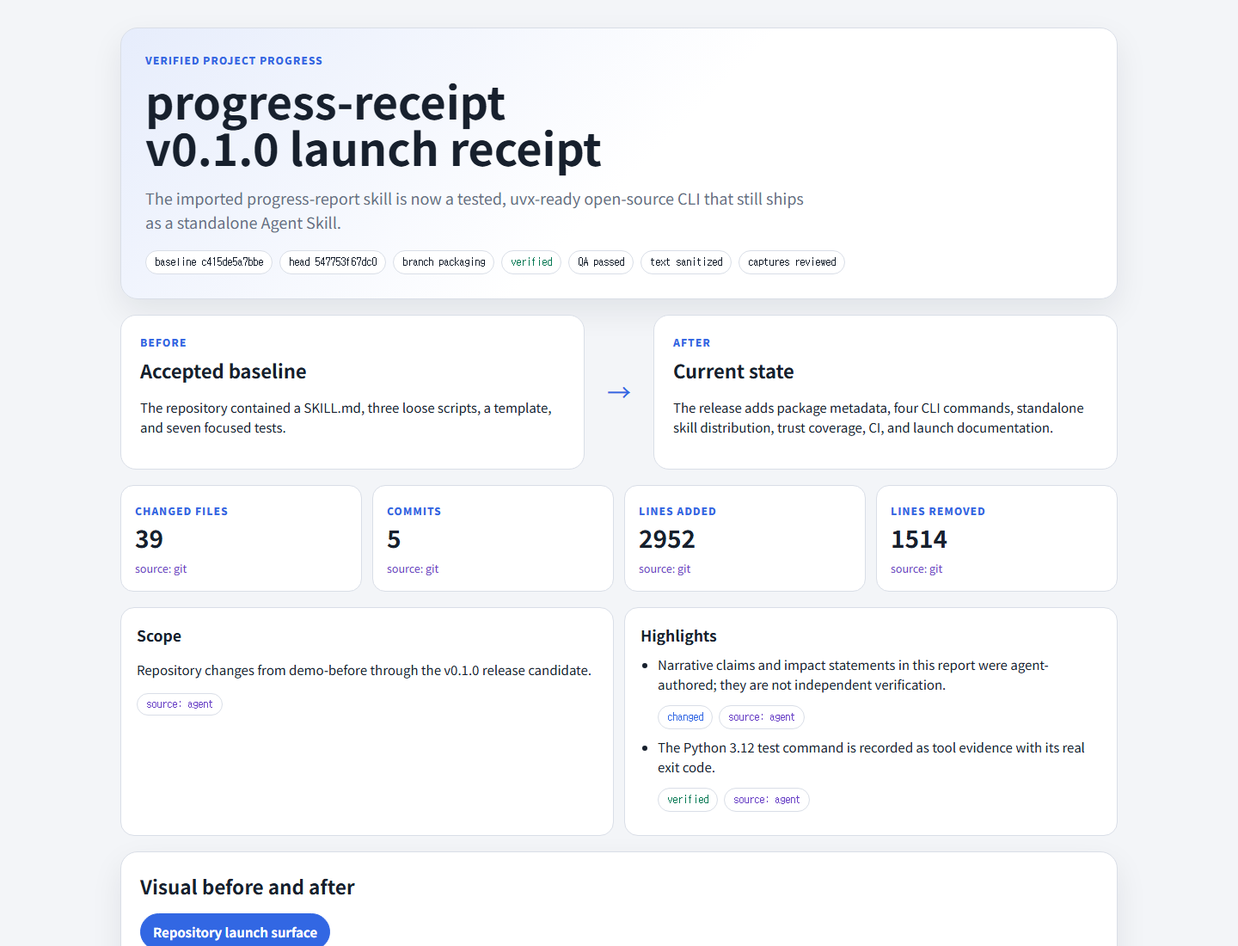
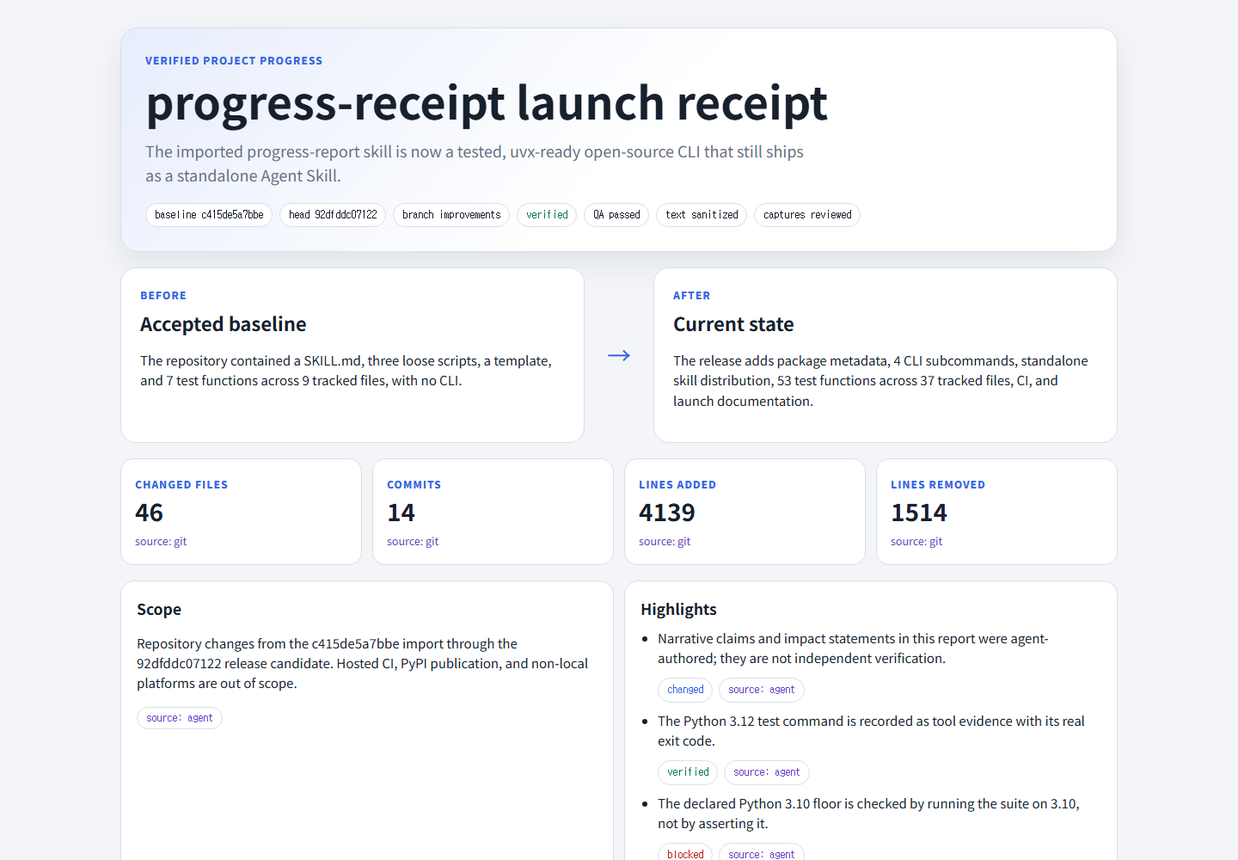
docs: regenerate the self-report so it is current and shows all four states
The committed receipt covered demo-before..547753f -- one commit behind
the v0.1.0 tag it claimed to document -- and contained no blocked claim,
so the artifact meant to demonstrate changed/verified/blocked/
not_observed only demonstrated three of them.

The regenerated receipt covers demo-before..92dfddc on this branch and
carries a real blocked claim: pyproject declares requires-python >= 3.10,
the generator runs the suite on 3.10, and no 3.10 interpreter was
available here, so the floor is recorded as an unexercised claim with
its actual exit code rather than being quietly asserted.

Its facts are now derived rather than authored: file, subcommand, and
test-function counts come from the Git trees at each ref, and the
interpreter version comes from the running interpreter. The report was
rendered outside the checkout, browser-checked at desktop, narrow, and
dark viewports, accepted through the real acceptance path, and only then
copied in. docs/report-preview.png is recaptured from it.

Adds tests that the committed report still matches its own integrity
receipt and still demonstrates all four claim states.

diff --git a/examples/self-report/index.html b/examples/self-report/index.html
@@ -3,7 +3,7 @@
 <head>
   <meta charset="utf-8">
   <meta name="viewport" content="width=device-width,initial-scale=1">
-  <title>progress-receipt v0.1.0 launch receipt</title>
+  <title>progress-receipt launch receipt</title>
   <style>
     :root{color-scheme:light dark;--bg:#f3f5f8;--panel:#fff;--ink:#17202d;--muted:#667085;--line:#d9dee7;--blue:#3267e3;--green:#087a55;--amber:#a55d00;--red:#b42318;--violet:#6941c6;--shadow:0 14px 36px rgba(16,24,40,.08)}
     *{box-sizing:border-box}body{margin:0;background:var(--bg);color:var(--ink);font:15px/1.55 Inter,"Noto Sans KR",system-ui,sans-serif}main{width:min(1160px,calc(100% - 32px));margin:0 auto;padding:32px 0 64px}.hero,.panel{background:var(--panel);border:1px solid var(--line);border-radius:20px;box-shadow:var(--shadow)}.hero{padding:28px;background:linear-gradient(135deg,color-mix(in srgb,var(--blue) 12%,var(--panel)),var(--panel) 52%)}.eyebrow,.label{font-size:12px;font-weight:800;letter-spacing:.08em;text-transform:uppercase;color:var(--blue)}h1{font-size:clamp(28px,5vw,52px);line-height:1.05;margin:10px 0 14px;max-width:850px}.summary{font-size:18px;max-width:780px;color:var(--muted)}.refs{display:flex;gap:8px;flex-wrap:wrap;margin-top:18px}.ref,.badge{border:1px solid var(--line);border-radius:999px;padding:6px 10px;font:12px/1.2 ui-monospace,monospace;background:var(--panel)}.lanes{display:grid;grid-template-columns:1fr 48px 1fr;gap:16px;align-items:stretch;margin:18px 0}.lane{padding:22px;border:1px solid var(--line);border-radius:18px;background:var(--panel)}.lane h2{margin:5px 0 8px;font-size:22px}.arrow{display:grid;place-items:center;font-size:28px;color:var(--blue)}.metrics,.cards,.evidence-grid{display:grid;grid-template-columns:repeat(4,minmax(0,1fr));gap:12px}.metric,.card,.evidence{min-width:0;border:1px solid var(--line);border-radius:15px;padding:16px;background:var(--panel)}.metric strong{display:block;font-size:28px}.panel{padding:22px;margin-top:18px}.panel h2{margin:0 0 14px}.cards{grid-template-columns:repeat(2,minmax(0,1fr))}.card{border-left:5px solid var(--line)}.card.verified{border-left-color:var(--green)}.card.changed{border-left-color:var(--blue)}.card.blocked{border-left-color:var(--red)}.card.not_observed{border-left-color:var(--amber)}.card h3,.evidence h3{margin:0 0 6px}.evidence code{overflow-wrap:anywhere;word-break:break-word}.meta{display:flex;gap:7px;flex-wrap:wrap;margin-top:12px}.source{color:var(--violet)}.status-verified{color:var(--green)}.status-blocked{color:var(--red)}.status-changed{color:var(--blue)}.status-not_observed{color:var(--amber)}.evidence-grid{grid-template-columns:repeat(2,minmax(0,1fr));align-items:start}.evidence.command{grid-column:1/-1}.evidence img{width:100%;border-radius:10px;border:1px solid var(--line);margin-top:12px}.report-extras{display:grid;grid-template-columns:repeat(2,minmax(0,1fr));gap:12px;margin:18px 0}.report-extra{background:var(--panel);border:1px solid var(--line);border-radius:16px;padding:18px}.report-extra h3{margin:0 0 8px}.highlight-list{padding-left:20px;margin:0}.highlight-list li{margin:9px 0}.comparison-tabs{display:flex;gap:8px;overflow-x:auto;padding-bottom:8px}.comparison-tab{appearance:none;border:1px solid var(--line);border-radius:999px;padding:9px 14px;background:var(--panel);color:var(--ink);font:inherit;font-weight:700;white-space:nowrap;cursor:pointer}.comparison-tab[aria-selected=true]{background:var(--blue);border-color:var(--blue);color:var(--panel)}.comparison-tab:focus-visible,.comparison-slider:focus-visible{outline:3px solid color-mix(in srgb,var(--blue) 45%,transparent);outline-offset:3px}.comparison-stage[hidden]{display:none}.comparison-heading{display:flex;justify-content:space-between;gap:18px;align-items:start}.comparison-heading h3{font-size:20px;margin:14px 0 0}.comparison-frame{position:relative;isolation:isolate;overflow:hidden;aspect-ratio:16/9;margin-top:16px;border:1px solid var(--line);border-radius:14px;background:var(--bg)}.comparison-frame img{display:block;width:100%;height:100%;object-fit:contain}.comparison-before{position:absolute;inset:0}.comparison-after{position:absolute;inset:0 auto 0 0;width:var(--split);overflow:hidden;border-right:2px solid #fff}.comparison-after img{width:calc(100% * 100 / max(1,var(--split-number,50)));max-width:none}.comparison-divider{position:absolute;z-index:3;inset:0 auto 0 calc(var(--split) - 1px);width:2px;background:#fff;box-shadow:0 0 0 1px rgba(0,0,0,.3)}.comparison-label{position:absolute;z-index:4;top:10px;padding:5px 9px;border-radius:999px;background:rgba(12,17,27,.78);color:#fff;font-size:12px;font-weight:800}.comparison-label-before{left:10px}.comparison-label-after{right:10px}.slider-label{display:block;font-weight:700;margin-top:12px}.comparison-slider{width:100%;accent-color:var(--blue)}.commit-list{display:grid;gap:8px}.commit{display:grid;grid-template-columns:130px minmax(0,1fr) 210px;gap:12px;align-items:center;padding:10px 12px;border:1px solid var(--line);border-radius:12px}.commit time{color:var(--muted);text-align:right}.inventory{width:100%;border-collapse:collapse;table-layout:fixed}.inventory th,.inventory td{text-align:left;padding:10px;border-bottom:1px solid var(--line);vertical-align:top;overflow-wrap:anywhere}.inventory th{color:var(--muted);font-size:12px}.inventory th:first-child{width:72px}.inventory th:last-child{width:110px}.warning{border:1px solid color-mix(in srgb,var(--amber) 45%,var(--line));background:color-mix(in srgb,var(--amber) 8%,var(--panel));padding:12px;border-radius:12px;margin-bottom:12px}.legend{color:var(--muted);font-size:13px}.empty{color:var(--muted);font-style:italic}@media(max-width:800px){.metrics{grid-template-columns:repeat(2,1fr)}.lanes{grid-template-columns:1fr}.arrow{transform:rotate(90deg)}.cards,.evidence-grid,.report-extras{grid-template-columns:1fr}.comparison-heading{display:block}.commit{grid-template-columns:1fr}.commit time{text-align:left}}@media(max-width:480px){main{width:min(100% - 20px,1160px);padding-top:10px}.hero,.panel{border-radius:14px;padding:17px}.metrics{grid-template-columns:1fr}h1{font-size:32px}.inventory{font-size:12px}.inventory th:first-child{width:42px}.inventory th:last-child{width:72px}}@media(prefers-color-scheme:dark){:root{--bg:#0c111b;--panel:#151c28;--ink:#f2f4f7;--muted:#aab3c2;--line:#30394a;--blue:#7aa2ff;--green:#5bd6aa;--amber:#ffbd66;--red:#ff8b83;--violet:#b7a0ff;--shadow:none}}@media print{body{background:#fff}.hero,.panel{box-shadow:none}main{width:100%;padding:0}.panel{break-inside:avoid}.comparison-tabs,.comparison-slider,.slider-label{display:none}}
@@ -21,22 +21,22 @@
 <main>
   <header class="hero">
     <div class="eyebrow">Verified project progress</div>
-    <h1>progress-receipt v0.1.0 launch receipt</h1>
+    <h1>progress-receipt launch receipt</h1>
     <p class="summary">The imported progress-report skill is now a tested, uvx-ready open-source CLI that still ships as a standalone Agent Skill.</p>
-    <div class="refs"><span class="ref" title="c415de5a7bbe259128b7048277f912d99ffd9d45">baseline c415de5a7bbe</span><span class="ref" title="547753f67dc0cfe8793ac0b3fda680b75c91f1a0">head 547753f67dc0</span><span class="ref">branch packaging</span><span class="badge status-verified">verified</span><span class="badge">QA passed</span><span class="badge">text sanitized</span><span class="badge">captures reviewed</span></div>
+    <div class="refs"><span class="ref" title="c415de5a7bbe259128b7048277f912d99ffd9d45">baseline c415de5a7bbe</span><span class="ref" title="92dfddc071224dfc09ab129069d8cdc45abe7f47">head 92dfddc07122</span><span class="ref">branch improvements</span><span class="badge status-verified">verified</span><span class="badge">QA passed</span><span class="badge">text sanitized</span><span class="badge">captures reviewed</span></div>
   </header>
   <section class="lanes" aria-label="Before and after comparison">
-    <article class="lane"><div class="label">Before</div><h2>Accepted baseline</h2><p>The repository contained a SKILL.md, three loose scripts, a template, and seven focused tests.</p></article>
+    <article class="lane"><div class="label">Before</div><h2>Accepted baseline</h2><p>The repository contained a SKILL.md, three loose scripts, a template, and 7 test functions across 9 tracked files, with no CLI.</p></article>
     <div class="arrow" aria-hidden="true">→</div>
-    <article class="lane"><div class="label">After</div><h2>Current state</h2><p>The release adds package metadata, four CLI commands, standalone skill distribution, trust coverage, CI, and launch documentation.</p></article>
+    <article class="lane"><div class="label">After</div><h2>Current state</h2><p>The release adds package metadata, 4 CLI subcommands, standalone skill distribution, 53 test functions across 37 tracked files, CI, and launch documentation.</p></article>
   </section>
-  <section class="metrics" aria-label="Progress metrics"><article class="metric"><span class="label">Changed files</span><strong>39</strong><small class="source">source: git</small></article><article class="metric"><span class="label">Commits</span><strong>5</strong><small class="source">source: git</small></article><article class="metric"><span class="label">Lines added</span><strong>2952</strong><small class="source">source: git</small></article><article class="metric"><span class="label">Lines removed</span><strong>1514</strong><small class="source">source: git</small></article></section>
-  <section class="report-extras"><article class="report-extra"><h3>Scope</h3><p>Repository changes from demo-before through the v0.1.0 release candidate.</p><span class="badge source">source: agent</span></article><article class="report-extra"><h3>Highlights</h3><ul class="highlight-list"><li><span>Narrative claims and impact statements in this report were agent-authored; they are not independent verification.</span><span class="meta"><span class="badge status-changed">changed</span><span class="badge source">source: agent</span></span></li><li><span>The Python 3.12 test command is recorded as tool evidence with its real exit code.</span><span class="meta"><span class="badge status-verified">verified</span><span class="badge source">source: agent</span></span></li></ul></article></section>
-  <section class="panel visual-comparisons"><h2>Visual before and after</h2><div class="comparison-tabs" role="tablist"><button type="button" class="comparison-tab" aria-controls="comparison-launch-surface" aria-selected="true" role="tab">Repository launch surface</button></div><article class="comparison-stage layout-landscape" id="comparison-launch-surface" role="tabpanel"><div class="comparison-heading"><div><h3>Repository launch surface</h3><p>Actual Git trees at demo-before and the release-candidate head, rendered as reviewed local captures.</p></div><div class="meta"><span class="badge status-changed">changed</span><span class="badge source">source: agent</span></div></div><div class="comparison-frame" style="--split:50%"><img class="comparison-before" src="assets/launch-before.png" alt="The demo-before repository shown as nine loose skill files with no CLI entry points."><div class="comparison-after"><img src="assets/launch-after.png" alt="The release-candidate repository shown with CLI, skill, tests, CI, documentation, and package metadata."></div><span class="comparison-label comparison-label-before">Before</span><span class="comparison-label comparison-label-after">After</span><span class="comparison-divider" aria-hidden="true"></span></div><label class="slider-label" for="slider-launch-surface">Before and after comparison position</label><input class="comparison-slider" id="slider-launch-surface" type="range" min="0" max="100" value="50" aria-controls="comparison-launch-surface"></article></section>
-  <section class="panel"><h2>Commits in range</h2><div class="commit-list"><article class="commit"><code title="547753f67dc0cfe8793ac0b3fda680b75c91f1a0">547753f67dc0</code><strong>fix: align visual comparison labels with their captures</strong><time>2026-08-22T12:43:10+09:00</time></article><article class="commit"><code title="db2d0a4723ad809883c6ce9cdcc3852e5d374f1c">db2d0a4723ad</code><strong>fix: prioritize launch files in the comparison capture</strong><time>2026-08-22T12:41:15+09:00</time></article><article class="commit"><code title="04154ee526506643d5b6ed8bdebac22741293056">04154ee52650</code><strong>fix: keep self-report captures within the frame</strong><time>2026-08-22T12:40:23+09:00</time></article><article class="commit"><code title="7de8371e146c3f10bcedd2fd9d8ce2ab6781a1a0">7de8371e146c</code><strong>build: add reproducible launch self-report generator</strong><time>2026-08-22T12:38:37+09:00</time></article><article class="commit"><code title="0231d9c797695637b2c5470b72262f34281fc1f8">0231d9c79769</code><strong>feat: build the progress-receipt CLI and standalone skill</strong><time>2026-08-22T12:35:49+09:00</time></article></div></section>
-  <section class="panel"><h2>What changed and what it means</h2><div class="cards"><article class="card verified"><h3>Full Python 3.12 suite passed</h3><p>Sanitization, evidence freshness, acceptance, tampering, path boundaries, truncation, packaging, and end-to-end behavior passed locally.</p><div class="meta"><span class="badge status-verified">verified</span><span class="badge source">source: agent</span><span class="badge">evidence: unittest-python-312</span></div></article><article class="card changed"><h3>Launch packaging changed</h3><p>The diff adds the CLI, README, license, docs, CI workflow, and packaged standalone skill; this claim intentionally describes change rather than verification.</p><div class="meta"><span class="badge status-changed">changed</span><span class="badge source">source: agent</span><span class="badge">evidence: none</span></div></article><article class="card not_observed"><h3>Hosted OS matrix was not observed</h3><p>Ubuntu, macOS, and Windows jobs are configured, but this local report does not claim a hosted GitHub Actions result.</p><div class="meta"><span class="badge status-not_observed">not_observed</span><span class="badge source">source: agent</span><span class="badge">evidence: none</span></div></article></div></section>
-  <section class="panel"><h2>Verification evidence</h2><div class="evidence-grid"><article class="evidence command"><h3>Full Python 3.12 unittest suite</h3><p><code>python -m unittest discover -s tests -v</code></p><div class="meta"><span class="badge">kind: command</span><span class="badge">ref: 547753f67dc0</span><span class="badge">source: tool</span><span class="badge">exit: 0</span></div></article><article class="evidence capture"><h3>Imported skill repository</h3><div class="meta"><span class="badge">kind: capture</span><span class="badge">ref: c415de5a7bbe</span><span class="badge">source: tool</span><span class="badge">capture reviewed</span></div><img src="assets/launch-before.png" alt="The demo-before repository shown as nine loose skill files with no CLI entry points."></article><article class="evidence capture"><h3>Packaged release repository</h3><div class="meta"><span class="badge">kind: capture</span><span class="badge">ref: 547753f67dc0</span><span class="badge">source: tool</span><span class="badge">capture reviewed</span></div><img src="assets/launch-after.png" alt="The release-candidate repository shown with CLI, skill, tests, CI, documentation, and package metadata."></article></div></section>
-  <section class="panel"><h2>Change inventory</h2><table class="inventory"><thead><tr><th>Status</th><th>Path</th><th>Delta</th></tr></thead><tbody><tr><td>A</td><td>.github/workflows/ci.yml</td><td>+29 / -0</td></tr><tr><td>A</td><td>.gitignore</td><td>+8 / -0</td></tr><tr><td>A</td><td>LICENSE</td><td>+21 / -0</td></tr><tr><td>A</td><td>README.md</td><td>+85 / -0</td></tr><tr><td>D</td><td>SKILL.md</td><td>+0 / -48</td></tr><tr><td>D</td><td>agents/openai.yaml</td><td>+0 / -4</td></tr><tr><td>D</td><td>assets/report-template.html</td><td>+0 / -72</td></tr><tr><td>A</td><td>docs/launch-todo.md</td><td>+8 / -0</td></tr><tr><td>A</td><td>docs/limitations.md</td><td>+11 / -0</td></tr><tr><td>A</td><td>docs/report-contract.md</td><td>+7 / -0</td></tr><tr><td>A</td><td>docs/threat-model.md</td><td>+18 / -0</td></tr><tr><td>A</td><td>pyproject.toml</td><td>+59 / -0</td></tr><tr><td>D</td><td>references/report-contract.md</td><td>+0 / -106</td></tr><tr><td>D</td><td>scripts/accept_progress.py</td><td>+0 / -171</td></tr><tr><td>D</td><td>scripts/collect_progress.py</td><td>+0 / -329</td></tr><tr><td>D</td><td>scripts/render_progress.py</td><td>+0 / -568</td></tr><tr><td>D</td><td>scripts/test_collect_progress.py</td><td>+0 / -74</td></tr><tr><td>D</td><td>scripts/test_render_progress.py</td><td>+0 / -142</td></tr><tr><td>A</td><td>skills/visualize-project-progress/SKILL.md</td><td>+48 / -0</td></tr><tr><td>A</td><td>skills/visualize-project-progress/agents/openai.yaml</td><td>+4 / -0</td></tr><tr><td>A</td><td>skills/visualize-project-progress/assets/report-template.html</td><td>+72 / -0</td></tr><tr><td>A</td><td>skills/visualize-project-progress/references/report-contract.md</td><td>+106 / -0</td></tr><tr><td>A</td><td>skills/visualize-project-progress/scripts/accept_progress.py</td><td>+171 / -0</td></tr><tr><td>A</td><td>skills/visualize-project-progress/scripts/collect_progress.py</td><td>+329 / -0</td></tr><tr><td>A</td><td>skills/visualize-project-progress/scripts/render_progress.py</td><td>+568 / -0</td></tr><tr><td>A</td><td>src/progress_receipt/__init__.py</td><td>+6 / -0</td></tr><tr><td>A</td><td>src/progress_receipt/__main__.py</td><td>+9 / -0</td></tr><tr><td>A</td><td>src/progress_receipt/_demo.py</td><td>+250 / -0</td></tr><tr><td>A</td><td>src/progress_receipt/_skill_loader.py</td><td>+68 / -0</td></tr><tr><td>A</td><td>src/progress_receipt/accept.py</td><td>+28 / -0</td></tr><tr><td>A</td><td>src/progress_receipt/cli.py</td><td>+49 / -0</td></tr><tr><td>A</td><td>src/progress_receipt/collect.py</td><td>+28 / -0</td></tr><tr><td>A</td><td>src/progress_receipt/render.py</td><td>+28 / -0</td></tr><tr><td>A</td><td>tests/test_accept_progress.py</td><td>+191 / -0</td></tr><tr><td>A</td><td>tests/test_cli.py</td><td>+38 / -0</td></tr><tr><td>A</td><td>tests/test_collect_progress.py</td><td>+140 / -0</td></tr><tr><td>A</td><td>tests/test_package_layout.py</td><td>+33 / -0</td></tr><tr><td>A</td><td>tests/test_render_progress.py</td><td>+211 / -0</td></tr><tr><td>A</td><td>tools/generate_self_report.py</td><td>+329 / -0</td></tr></tbody></table></section>
+  <section class="metrics" aria-label="Progress metrics"><article class="metric"><span class="label">Changed files</span><strong>46</strong><small class="source">source: git</small></article><article class="metric"><span class="label">Commits</span><strong>14</strong><small class="source">source: git</small></article><article class="metric"><span class="label">Lines added</span><strong>4139</strong><small class="source">source: git</small></article><article class="metric"><span class="label">Lines removed</span><strong>1514</strong><small class="source">source: git</small></article></section>
+  <section class="report-extras"><article class="report-extra"><h3>Scope</h3><p>Repository changes from the c415de5a7bbe import through the 92dfddc07122 release candidate. Hosted CI, PyPI publication, and non-local platforms are out of scope.</p><span class="badge source">source: agent</span></article><article class="report-extra"><h3>Highlights</h3><ul class="highlight-list"><li><span>Narrative claims and impact statements in this report were agent-authored; they are not independent verification.</span><span class="meta"><span class="badge status-changed">changed</span><span class="badge source">source: agent</span></span></li><li><span>The Python 3.12 test command is recorded as tool evidence with its real exit code.</span><span class="meta"><span class="badge status-verified">verified</span><span class="badge source">source: agent</span></span></li><li><span>The declared Python 3.10 floor is checked by running the suite on 3.10, not by asserting it.</span><span class="meta"><span class="badge status-blocked">blocked</span><span class="badge source">source: agent</span></span></li></ul></article></section>
+  <section class="panel visual-comparisons"><h2>Visual before and after</h2><div class="comparison-tabs" role="tablist"><button type="button" class="comparison-tab" aria-controls="comparison-launch-surface" aria-selected="true" role="tab">Repository launch surface</button></div><article class="comparison-stage layout-landscape" id="comparison-launch-surface" role="tabpanel"><div class="comparison-heading"><div><h3>Repository launch surface</h3><p>Actual Git trees at demo-before and the release-candidate head, rendered as reviewed local captures.</p></div><div class="meta"><span class="badge status-changed">changed</span><span class="badge source">source: agent</span></div></div><div class="comparison-frame" style="--split:50%"><img class="comparison-before" src="assets/launch-before.png" alt="The imported repository shown as 9 tracked files with 0 CLI subcommands and 7 test functions."><div class="comparison-after"><img src="assets/launch-after.png" alt="The release-candidate repository shown as 37 tracked files with 4 CLI subcommands and 53 test functions."></div><span class="comparison-label comparison-label-before">Before</span><span class="comparison-label comparison-label-after">After</span><span class="comparison-divider" aria-hidden="true"></span></div><label class="slider-label" for="slider-launch-surface">Before and after comparison position</label><input class="comparison-slider" id="slider-launch-surface" type="range" min="0" max="100" value="50" aria-controls="comparison-launch-surface"></article></section>
+  <section class="panel"><h2>Commits in range</h2><div class="commit-list"><article class="commit"><code title="92dfddc071224dfc09ab129069d8cdc45abe7f47">92dfddc07122</code><strong>fix: count self-report test functions wherever the modules live</strong><time>2026-08-22T13:31:11+09:00</time></article><article class="commit"><code title="4692fa03ae1b746ec4bc71b05d27e6ed9ca17bdd">4692fa03ae1b</code><strong>fix: do not crash the self-report when python3.10 is not on PATH</strong><time>2026-08-22T13:30:03+09:00</time></article><article class="commit"><code title="42b13973219212b4952a93c52054e0fc7fe2989a">42b139732192</code><strong>docs: disclose what the tool actually enforces, and test the 3.10 floor</strong><time>2026-08-22T13:29:21+09:00</time></article><article class="commit"><code title="b1ce18fc7beff0a1c3a8682a5d01516905a01fc4">b1ce18fc7bef</code><strong>fix: make the demo deterministic and give it a real first impression</strong><time>2026-08-22T13:23:44+09:00</time></article><article class="commit"><code title="d689416bce57997c06c0b6c2e0694a6cc07cc8bf">d689416bce57</code><strong>improve: close two acceptance gaps</strong><time>2026-08-22T13:18:22+09:00</time></article><article class="commit"><code title="4834570ad1755a8b11dc2490f9f3271f33e5142f">4834570ad175</code><strong>fix: make capture paths portable and verify capture bytes</strong><time>2026-08-22T13:16:07+09:00</time></article><article class="commit"><code title="e81a55289b2569c0b1b047775fe0fc7fba28297e">e81a55289b25</code><strong>fix: bind the worktree fingerprint to staged content</strong><time>2026-08-22T13:13:19+09:00</time></article><article class="commit"><code title="bf1309c24dd5560adac74a55ef64433800a0e6c6">bf1309c24dd5</code><strong>fix: close sanitizer false negatives and false positives</strong><time>2026-08-22T13:11:33+09:00</time></article><article class="commit"><code title="a389525b01936b9d15b23da804566668613387c9">a389525b0193</code><strong>v0.1.0: package as progress-receipt (CLI + skill + self-report)</strong><time>2026-08-22T12:46:35+09:00</time></article><article class="commit"><code title="547753f67dc0cfe8793ac0b3fda680b75c91f1a0">547753f67dc0</code><strong>fix: align visual comparison labels with their captures</strong><time>2026-08-22T12:43:10+09:00</time></article><article class="commit"><code title="db2d0a4723ad809883c6ce9cdcc3852e5d374f1c">db2d0a4723ad</code><strong>fix: prioritize launch files in the comparison capture</strong><time>2026-08-22T12:41:15+09:00</time></article><article class="commit"><code title="04154ee526506643d5b6ed8bdebac22741293056">04154ee52650</code><strong>fix: keep self-report captures within the frame</strong><time>2026-08-22T12:40:23+09:00</time></article><article class="commit"><code title="7de8371e146c3f10bcedd2fd9d8ce2ab6781a1a0">7de8371e146c</code><strong>build: add reproducible launch self-report generator</strong><time>2026-08-22T12:38:37+09:00</time></article><article class="commit"><code title="0231d9c797695637b2c5470b72262f34281fc1f8">0231d9c79769</code><strong>feat: build the progress-receipt CLI and standalone skill</strong><time>2026-08-22T12:35:49+09:00</time></article></div></section>
+  <section class="panel"><h2>What changed and what it means</h2><div class="cards"><article class="card verified"><h3>Full Python 3.12 suite passed</h3><p>53 test functions covering sanitization, evidence freshness, acceptance, tampering, path boundaries, truncation, packaging, and end-to-end behavior passed locally.</p><div class="meta"><span class="badge status-verified">verified</span><span class="badge source">source: agent</span><span class="badge">evidence: unittest-local-python</span></div></article><article class="card blocked"><h3>Declared Python 3.10 floor could not be exercised</h3><p>pyproject.toml declares requires-python &gt;= 3.10. The check ran on this machine and its real exit code is attached; a non-zero code means no 3.10 interpreter was available, so the floor remains an untested claim here.</p><div class="meta"><span class="badge status-blocked">blocked</span><span class="badge source">source: agent</span><span class="badge">evidence: unittest-python-310</span></div></article><article class="card changed"><h3>Launch packaging changed</h3><p>The diff adds the CLI, README, license, docs, CI workflow, and packaged standalone skill; this claim intentionally describes change rather than verification.</p><div class="meta"><span class="badge status-changed">changed</span><span class="badge source">source: agent</span><span class="badge">evidence: none</span></div></article><article class="card not_observed"><h3>Hosted OS matrix was not observed</h3><p>Ubuntu, macOS, and Windows jobs are configured, but this local report does not claim a hosted GitHub Actions result.</p><div class="meta"><span class="badge status-not_observed">not_observed</span><span class="badge source">source: agent</span><span class="badge">evidence: none</span></div></article></div></section>
+  <section class="panel"><h2>Verification evidence</h2><div class="evidence-grid"><article class="evidence command"><h3>Full Python 3.12 unittest suite</h3><p><code>python3.12 -m unittest discover -s tests -v</code></p><div class="meta"><span class="badge">kind: command</span><span class="badge">ref: 92dfddc07122</span><span class="badge">source: tool</span><span class="badge">exit: 0</span></div></article><article class="evidence command"><h3>Suite on the declared minimum interpreter</h3><p><code>py -3.10 -m unittest discover -s tests</code></p><div class="meta"><span class="badge">kind: command</span><span class="badge">ref: 92dfddc07122</span><span class="badge">source: tool</span><span class="badge">exit: 9009</span></div></article><article class="evidence capture"><h3>Imported skill repository</h3><div class="meta"><span class="badge">kind: capture</span><span class="badge">ref: c415de5a7bbe</span><span class="badge">source: tool</span><span class="badge">capture reviewed</span></div><img src="assets/launch-before.png" alt="The imported repository shown as 9 tracked files with 0 CLI subcommands and 7 test functions."></article><article class="evidence capture"><h3>Packaged release repository</h3><div class="meta"><span class="badge">kind: capture</span><span class="badge">ref: 92dfddc07122</span><span class="badge">source: tool</span><span class="badge">capture reviewed</span></div><img src="assets/launch-after.png" alt="The release-candidate repository shown as 37 tracked files with 4 CLI subcommands and 53 test functions."></article></div></section>
+  <section class="panel"><h2>Change inventory</h2><table class="inventory"><thead><tr><th>Status</th><th>Path</th><th>Delta</th></tr></thead><tbody><tr><td>A</td><td>.gitattributes</td><td>+9 / -0</td></tr><tr><td>A</td><td>.github/workflows/ci.yml</td><td>+29 / -0</td></tr><tr><td>A</td><td>.gitignore</td><td>+9 / -0</td></tr><tr><td>A</td><td>LICENSE</td><td>+21 / -0</td></tr><tr><td>A</td><td>README.md</td><td>+87 / -0</td></tr><tr><td>D</td><td>SKILL.md</td><td>+0 / -48</td></tr><tr><td>D</td><td>agents/openai.yaml</td><td>+0 / -4</td></tr><tr><td>D</td><td>assets/report-template.html</td><td>+0 / -72</td></tr><tr><td>A</td><td>docs/launch-todo.md</td><td>+8 / -0</td></tr><tr><td>A</td><td>docs/limitations.md</td><td>+16 / -0</td></tr><tr><td>A</td><td>docs/report-contract.md</td><td>+7 / -0</td></tr><tr><td>A</td><td>docs/report-preview.png</td><td>binary</td></tr><tr><td>A</td><td>docs/threat-model.md</td><td>+18 / -0</td></tr><tr><td>A</td><td>examples/self-report/assets/launch-after.png</td><td>binary</td></tr><tr><td>A</td><td>examples/self-report/assets/launch-before.png</td><td>binary</td></tr><tr><td>A</td><td>examples/self-report/index.html</td><td>+72 / -0</td></tr><tr><td>A</td><td>examples/self-report/integrity.json</td><td>+9 / -0</td></tr><tr><td>A</td><td>examples/self-report/manifest.json</td><td>+536 / -0</td></tr><tr><td>A</td><td>pyproject.toml</td><td>+59 / -0</td></tr><tr><td>D</td><td>references/report-contract.md</td><td>+0 / -106</td></tr><tr><td>D</td><td>scripts/accept_progress.py</td><td>+0 / -171</td></tr><tr><td>D</td><td>scripts/collect_progress.py</td><td>+0 / -329</td></tr><tr><td>D</td><td>scripts/render_progress.py</td><td>+0 / -568</td></tr><tr><td>D</td><td>scripts/test_collect_progress.py</td><td>+0 / -74</td></tr><tr><td>D</td><td>scripts/test_render_progress.py</td><td>+0 / -142</td></tr><tr><td>A</td><td>skills/visualize-project-progress/SKILL.md</td><td>+49 / -0</td></tr><tr><td>A</td><td>skills/visualize-project-progress/agents/openai.yaml</td><td>+4 / -0</td></tr><tr><td>A</td><td>skills/visualize-project-progress/assets/report-template.html</td><td>+72 / -0</td></tr><tr><td>A</td><td>skills/visualize-project-progress/references/report-contract.md</td><td>+109 / -0</td></tr><tr><td>A</td><td>skills/visualize-project-progress/scripts/accept_progress.py</td><td>+209 / -0</td></tr><tr><td>A</td><td>skills/visualize-project-progress/scripts/collect_progress.py</td><td>+374 / -0</td></tr><tr><td>A</td><td>skills/visualize-project-progress/scripts/render_progress.py</td><td>+602 / -0</td></tr><tr><td>A</td><td>src/progress_receipt/__init__.py</td><td>+6 / -0</td></tr><tr><td>A</td><td>src/progress_receipt/__main__.py</td><td>+9 / -0</td></tr><tr><td>A</td><td>src/progress_receipt/_demo.py</td><td>+315 / -0</td></tr><tr><td>A</td><td>src/progress_receipt/_skill_loader.py</td><td>+68 / -0</td></tr><tr><td>A</td><td>src/progress_receipt/accept.py</td><td>+28 / -0</td></tr><tr><td>A</td><td>src/progress_receipt/cli.py</td><td>+65 / -0</td></tr><tr><td>A</td><td>src/progress_receipt/collect.py</td><td>+28 / -0</td></tr><tr><td>A</td><td>src/progress_receipt/render.py</td><td>+28 / -0</td></tr><tr><td>A</td><td>tests/test_accept_progress.py</td><td>+232 / -0</td></tr><tr><td>A</td><td>tests/test_cli.py</td><td>+119 / -0</td></tr><tr><td>A</td><td>tests/test_collect_progress.py</td><td>+244 / -0</td></tr><tr><td>A</td><td>tests/test_package_layout.py</td><td>+33 / -0</td></tr><tr><td>A</td><td>tests/test_render_progress.py</td><td>+250 / -0</td></tr><tr><td>A</td><td>tools/generate_self_report.py</td><td>+415 / -0</td></tr></tbody></table></section>
   <section class="panel legend"><h2>How to read this report</h2><p><strong>changed</strong> means the diff contains a modification. <strong>verified</strong> means fresh evidence supports a claim. <strong>blocked</strong> means an observed check could not complete. <strong>not_observed</strong> means the outcome was not inspected.</p><p>Manifest text is machine-sanitized. Images are displayed only after an agent or human records a visual review; pixels are not described as sanitized. Agent-authored interpretation is labeled separately from Git and tool facts.</p></section>
 </main>
 <script>

diff --git a/tests/test_package_layout.py b/tests/test_package_layout.py
@@ -1,5 +1,7 @@
 from __future__ import annotations
 
+import hashlib
+import json
 from pathlib import Path
 import unittest
 
@@ -27,6 +29,44 @@ class PackageLayoutTests(unittest.TestCase):
         self.assertTrue((root / "references" / "report-contract.md").is_file())
         self.assertTrue((root / "assets" / "report-template.html").is_file())
         self.assertTrue((root / "agents" / "openai.yaml").is_file())
+
+
+class CommittedSelfReportTests(unittest.TestCase):
+    """The published example must keep matching its own receipt.
+
+    Line-ending translation, a stray edit, or a partial regeneration would all
+    break the integrity claim the README makes about this directory.
+    """
+
+    def report(self) -> Path:
+        return Path(__file__).resolve().parents[1] / "examples" / "self-report"
+
+    def test_committed_self_report_matches_its_integrity_receipt(self) -> None:
+        report = self.report()
+        if not report.is_dir():
+            self.skipTest("the self-report example is not present in this distribution")
+        integrity = json.loads((report / "integrity.json").read_text(encoding="utf-8"))
+
+        self.assertEqual(
+            integrity["htmlSha256"], hashlib.sha256((report / "index.html").read_bytes()).hexdigest()
+        )
+        self.assertEqual(
+            integrity["manifestSha256"], hashlib.sha256((report / "manifest.json").read_bytes()).hexdigest()
+        )
+        for relative, digest in integrity["assets"].items():
+            with self.subTest(asset=relative):
+                self.assertEqual(digest, hashlib.sha256((report / relative).read_bytes()).hexdigest())
+
+    def test_committed_self_report_demonstrates_every_claim_state(self) -> None:
+        report = self.report()
+        if not report.is_dir():
+            self.skipTest("the self-report example is not present in this distribution")
+        manifest = json.loads((report / "manifest.json").read_text(encoding="utf-8"))
+
+        self.assertEqual(
+            {"changed", "verified", "blocked", "not_observed"},
+            {claim["status"] for claim in manifest["claims"]},
+        )
 
 
 if __name__ == "__main__":
